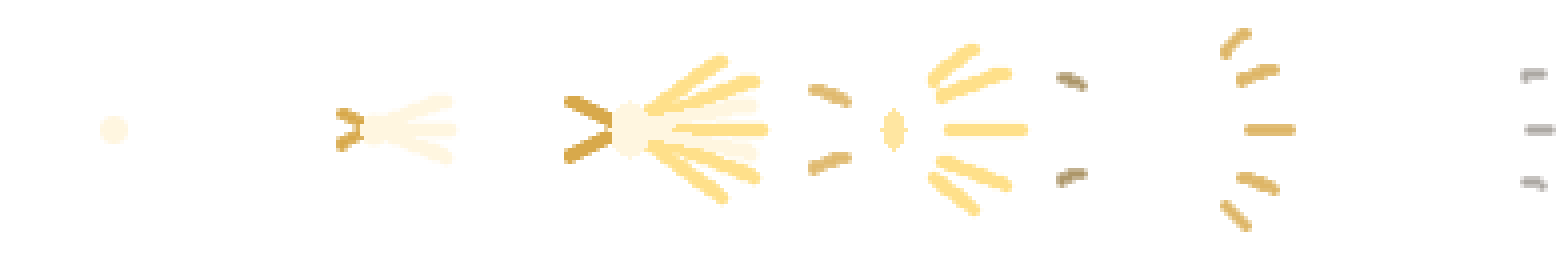
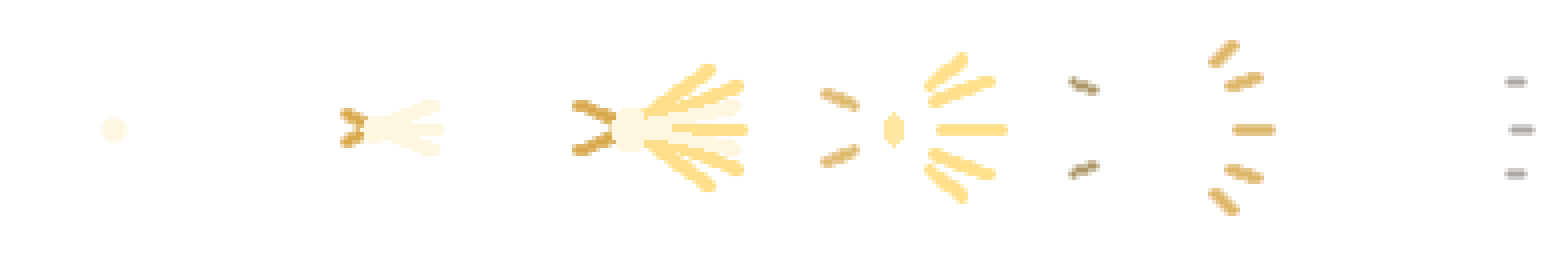
타격 그림 여섯 장을 틀에 맞추고, 지하 공창·폭주로에 원경을 붙였다
■ 잘린 타격 그림

  물리 타격 여섯 장 중 열한 프레임이 64칸 틀에 붙어 있었다. 둔기 치명타의
  바깥 고리는 rx 33(틀은 반지름 32)이라 좌우가 칼로 자른 듯 끊겼고, 파편
  하나는 x=0 에 붙어 반쪽만 보였다. 틀을 넘은 자리는 없어지는 것이 아니라
  **잘린 단면으로 남는다.**

  스케치를 64x64 viewBox 그대로 옮긴 것이 원인이라, 좌표를 하나씩 고치는
  대신 굽는 과정을 두 번으로 나눴다 — 두 배 판에 잘리지 않게 그려 실제로
  얼마나 넓은지 재고, 그 시트가 여백 2칸을 남기고 들어가는 배율 하나를 구해
  다시 그린다. 프레임마다 따로 맞추면 애니메이션이 프레임 단위로 커졌다
  작아지므로 배율은 시트 하나에 하나, 계열의 평타·치명타가 서로 커 보이지
  않도록 계열 안에서는 둘 중 더 작은 쪽으로 맞춘다.

    베기 0.879 · 찌르기 0.853 · 둔기 0.829
    서른여섯 프레임 전부 여백 2칸 이상, 가장자리 알파 0

  줄어든 만큼 화면에서 그리는 크기를 나눠서 올렸다(46→52 · 44→52 · 60→72).
  보이는 크기는 예전 그대로다 — 틀에 맞추느라 타격이 작아지면 고친 것이
  아니라 바꾼 것이 된다.

■ 원경 없던 두 구역

  parallax_works 는 매니페스트에 실려 있고 파일도 멀쩡한데(1920×400)
  drawParallaxArt 가 그 키를 한 번도 안 불렀다. 지하 공창과 폭주로는
  원경이 아예 없이 돌고 있었다 — 세션 2 의 절반을 보내는 곳인데 뒤가
  빈 캔버스였다. 설계실은 일부러 뺐다(강철이 한 조각도 없는 흰 돌방).

Claude-Session: https://claude.ai/code/session_015bTXkb4q3SzK7wZ8JdbtYP

diff --git a/game/index.html b/game/index.html
@@ -4,7 +4,7 @@
 <meta charset="utf-8">
 <meta name="viewport" content="width=device-width,initial-scale=1">
 <title>Ashfall Chronicles — 별이 잠든 땅</title>
-<link rel="stylesheet" href="css/style.css?v=238">
+<link rel="stylesheet" href="css/style.css?v=239">
 </head>
 <body>
 
@@ -451,19 +451,19 @@
   </div>
 </div>
 
-<script src="js/util.js?v=238"></script>
-<script src="js/data.js?v=238"></script>
-<script src="js/world.js?v=238"></script>
-<script src="js/tileart.js?v=238"></script>
-<script src="js/itemart.js?v=238"></script>
-<script src="js/titlebg.js?v=238"></script>
+<script src="js/util.js?v=239"></script>
+<script src="js/data.js?v=239"></script>
+<script src="js/world.js?v=239"></script>
+<script src="js/tileart.js?v=239"></script>
+<script src="js/itemart.js?v=239"></script>
+<script src="js/titlebg.js?v=239"></script>
 <!-- 매니페스트는 sprites.js 보다 먼저. file:// 에서 fetch 가 막히므로 <script> 로 넣는다 -->
-<script src="assets/sprites-manifest.js?v=238"></script>
-<script src="assets/sprites.js?v=238"></script>
-<script src="js/entity.js?v=238"></script>
-<script src="js/factory.js?v=238"></script>
-<script src="js/ui.js?v=238"></script>
-<script src="js/music.js?v=238"></script>
-<script src="js/game.js?v=238"></script>
+<script src="assets/sprites-manifest.js?v=239"></script>
+<script src="assets/sprites.js?v=239"></script>
+<script src="js/entity.js?v=239"></script>
+<script src="js/factory.js?v=239"></script>
+<script src="js/ui.js?v=239"></script>
+<script src="js/music.js?v=239"></script>
+<script src="js/game.js?v=239"></script>
 </body>
 </html>

diff --git a/game/js/data.js b/game/js/data.js
@@ -1050,11 +1050,18 @@ const HIT_FAM = {
 };
 /* 계열마다 크기와 남는 시간이 다르다. 이게 무게로 읽힌다 —
    베기는 가장 빨리 사라져야 연타가 겹쳐도 화면이 안 막히고,
-   둔기는 가장 크고 가장 늦게까지 남아야 한 방이 무겁게 읽힌다. */
+   둔기는 가장 크고 가장 늦게까지 남아야 한 방이 무겁게 읽힌다.
+
+   ★ size 는 그림이 차지하는 크기가 아니라 **틀(64칸)을 그리는 크기**다.
+   시트는 틀 안에 여백 2칸을 남기고 구워지므로(tools/mkhitphys.py 의 틀 맞춤)
+   화면에 보이는 크기는 size × 그 배율이다 — 베기 52×0.879≈46 ·
+   찌르기 52×0.853≈44 · 둔기 72×0.829≈60, 즉 보이는 크기는 예전 그대로다.
+   베기와 찌르기가 같은 52인 것은 우연이고, 둘의 배율이 달라 화면에서는 안 같다.
+   시트를 다시 구우면 그 스크립트가 찍어 주는 숫자로 여기를 같이 고친다. */
 const HIT_FX = {
-  slash: { size: 46, slow: 0.80 },
-  pierce: { size: 44, slow: 0.90 },
-  blunt: { size: 60, slow: 1.35 }
+  slash: { size: 52, slow: 0.80 },
+  pierce: { size: 52, slow: 0.90 },
+  blunt: { size: 72, slow: 1.35 }
 };
 
 /** 이 무기로 때렸을 때 어느 타격 그림을 쓰는가. 없으면(마법·맨손) null */

diff --git a/game/js/game.js b/game/js/game.js
@@ -4734,6 +4734,13 @@ const G = {
     // parallax_sky·parallax_ruin이 들어와 있었는데 여기서 참조하지 않아 그동안 안 쓰이고 있었다
     else if (zone === 'sky') key = 'parallax_sky';
     else if (zone === 'ruin') key = 'parallax_ruin';
+    /* ★ parallax_works 도 같은 신세였다 — 매니페스트에 실려 있고 파일도 멀쩡한데
+       (1920×400) 이 함수가 그 키를 한 번도 안 불렀다. 그래서 지하 공창과 폭주로는
+       **원경이 아예 없었다**(아래 '지하 중간층은 원경 없음' 으로 빠져나간다).
+       세션 2 의 절반을 보내는 곳인데 뒤가 빈 캔버스였다.
+       설계실(atelier)은 일부러 뺀다 — 거기는 "강철이 한 조각도 없는 흰 돌방"이라
+       공창 배경을 깔면 글과 그림이 어긋난다. */
+    else if (zone === 'works' || zone === 'runaway') key = 'parallax_works';
     // 여명 마을은 전용 그림. 베이스캠프는 숲 배경 그대로 (마을 배경 쓰면 안 됨)
     else if (zone === 'village') key = 'parallax_village';
     else if (zone === 'camp') key = 'parallax_forest';

diff --git a/tools/mkhitphys.py b/tools/mkhitphys.py
@@ -30,6 +30,24 @@
   manifest.json 의 fx.bursts 가 그 규격으로 잘라 쓴다(scale 4 · gap 4 ·
   frameW/H 64 · count 6).
 
+■ 틀 맞춤 — 두 번 굽는다
+
+  처음에는 스케치를 좌표 그대로 옮겼고, 그래서 큰 프레임이 틀을 넘었다.
+  둔기 치명타의 바깥 고리는 rx 33(틀은 반지름 32)이고, 파편 하나는 x=0 에
+  붙어 있었다. 넘은 자리는 **없어지는 것이 아니라 잘린 단면으로 남는다** —
+  고리가 좌우에서 칼로 자른 듯 끊기고, 파편은 반쪽만 보인다.
+
+  그래서 두 번 굽는다. 첫 번째는 **두 배 넓은 버퍼**에 잘리지 않게 그려
+  시트가 실제로 얼마나 넓은지 재고, 그 시트에서 가장 넓은 프레임이 틀 안에
+  여백 2px 을 남기고 들어가는 배율 하나를 구한다. 두 번째에 그 배율로 다시
+  그린다 — 프레임마다 따로 맞추면 애니메이션이 프레임 단위로 커졌다 작아지므로
+  **배율은 시트 하나에 하나**, 계열의 평타·치명타가 서로 커 보이지 않도록
+  **계열 안에서는 둘 중 더 작은 쪽**으로 맞춘다.
+
+  그림이 줄어든 만큼 화면에서 그리는 크기(data.js 의 HIT_FX size)를 나눠서
+  올린다 — 틀에 맞추느라 타격이 작아지면 고친 것이 아니라 바꾼 것이 된다.
+  이 스크립트가 그 숫자를 찍어 준다.
+
 ■ 색
 
   물리만 금빛을 쓴다 — 이미 있는 마법 다섯(비전·서리·영혼·불·공허)이 전부
@@ -43,6 +61,10 @@ from PIL import Image
 
 OUT = os.path.join(os.path.dirname(os.path.abspath(__file__)), '..', 'game', 'assets', 'fx')
 N, S, GAP, FRAMES = 64, 4, 4, 6
+MARGIN = 2              # 틀 안쪽에 반드시 남는 여백(원본 px) — 단면이 안 생기는 최소치
+
+# 굽는 동안 바뀌는 것: 재는 판(CANV=128)과 내는 판(CANV=64), 그리고 틀 맞춤 배율.
+CANV, CEN, FIT = N, N / 2, 1.0
 
 W = (255, 246, 224)     # 심지 — 따뜻한 흰빛
 G = (255, 224, 138)     # 금빛 몸통
@@ -54,10 +76,21 @@ P = (255, 255, 255)     # 순백 — 치명타에만
 
 # ---------------------------------------------------------------- 붓
 
+def tp(v):
+    """스케치 좌표(가운데 32) → 지금 굽는 판의 좌표. FIT<1 이면 가운데로 당겨진다."""
+    return CEN + (v - N / 2) * FIT
+
+
+def tw(v):
+    """굵기·반지름도 같은 배율로 — 위치만 줄이면 획이 굵어져 고리가 도로 틀을 넘는다."""
+    return max(v * FIT, 0.5)
+
+
 def put(px, x, y, rgb, a):
-    """더 밝은(더 진한) 쪽을 남긴다. 겹칠 때 앞의 획이 뒤에 먹히지 않게."""
+    """더 밝은(더 진한) 쪽을 남긴다. 겹칠 때 앞의 획이 뒤에 먹히지 않게.
+       ★ 판의 좌표를 받는다(tp 를 이미 지난 값). 여기서 또 변환하면 두 번 줄어든다."""
     x, y = int(x), int(y)
-    if not (0 <= x < N and 0 <= y < N) or a <= 0:
+    if not (0 <= x < CANV and 0 <= y < CANV) or a <= 0:
         return
     a = min(1.0, a)
     if a * 255 >= px[x, y][3]:
@@ -65,7 +98,9 @@ def put(px, x, y, rgb, a):
 
 
 def dot(px, x, y, r, rgb, a):
-    """둥근 점 하나 — 모든 획의 단위."""
+    """둥근 점 하나 — 모든 획의 단위. 틀 맞춤이 걸리는 곳은 여기 한 군데다
+       (bez·line·ell 이 전부 dot 을 거치므로 스케치 좌표를 그대로 넘겨도 된다)."""
+    x, y, r = tp(x), tp(y), tw(r)
     rr = int(r) + 2
     for dy in range(-rr, rr + 1):
         for dx in range(-rr, rr + 1):
@@ -105,6 +140,7 @@ def ell(px, cx, cy, rx, ry, sw, rgb, a):
 
 
 def ellfill(px, cx, cy, rx, ry, rgb, a):
+    cx, cy, rx, ry = tp(cx), tp(cy), tw(rx), tw(ry)
     for y in range(int(-ry) - 1, int(ry) + 2):
         for x in range(int(-rx) - 1, int(rx) + 2):
             if (x / max(rx, .1)) ** 2 + (y / max(ry, .1)) ** 2 <= 1:
@@ -113,13 +149,14 @@ def ellfill(px, cx, cy, rx, ry, rgb, a):
 
 def box(px, x, y, w, h, rgb, a):
     """네모 파편 — 둔기가 튀겨 낸 덩어리."""
+    x, y, w, h = tp(x), tp(y), max(round(w * FIT), 2), max(round(h * FIT), 2)
     for dy in range(int(h)):
         for dx in range(int(w)):
             put(px, x + dx, y + dy, rgb, a)
 
 
 def new():
-    im = Image.new('RGBA', (N, N), (0, 0, 0, 0))
+    im = Image.new('RGBA', (CANV, CANV), (0, 0, 0, 0))
     return im, im.load()
 
 
@@ -370,24 +407,57 @@ def f_blunt_crit(f):
     return im
 
 
-SHEETS = [
-    ('hit_slash', f_slash), ('hit_slash_crit', f_slash_crit),
-    ('hit_pierce', f_pierce), ('hit_pierce_crit', f_pierce_crit),
-    ('hit_blunt', f_blunt), ('hit_blunt_crit', f_blunt_crit),
+# 계열 = 평타·치명타 한 쌍. 화면에서 그리는 크기(HIT_FX size)를 한 쌍이 같이 쓰므로
+# 틀 맞춤 배율도 쌍으로 하나여야 한다 — 따로 맞추면 치명타가 평타보다 작아진다.
+FAMS = [
+    ('slash', 46, [('hit_slash', f_slash), ('hit_slash_crit', f_slash_crit)]),
+    ('pierce', 44, [('hit_pierce', f_pierce), ('hit_pierce_crit', f_pierce_crit)]),
+    ('blunt', 60, [('hit_blunt', f_blunt), ('hit_blunt_crit', f_blunt_crit)]),
 ]
+
+
+def measure(fn):
+    """첫 번째 굽기 — 두 배 판에 잘리지 않게 그려, 가운데에서 가장 먼 픽셀을 잰다."""
+    global CANV, CEN, FIT
+    CANV, CEN, FIT = N * 2, N, 1.0
+    far = 0.0
+    for f in range(FRAMES):
+        bb = fn(f).getbbox()
+        if not bb:
+            continue
+        l, t, r, b = bb
+        far = max(far, CEN - l, (r - 1) - CEN, CEN - t, (b - 1) - CEN)
+    return far
 
 
 def main():
     os.makedirs(OUT, exist_ok=True)
+    global CANV, CEN, FIT
     fw = N * S
     sw = FRAMES * fw + (FRAMES - 1) * GAP
-    for name, fn in SHEETS:
-        sheet = Image.new('RGBA', (sw, N * S), (0, 0, 0, 0))
-        for f in range(FRAMES):
-            sheet.paste(fn(f).resize((fw, N * S), Image.NEAREST), (f * (fw + GAP), 0))
-        p = os.path.join(OUT, name + '.png')
-        sheet.save(p)
-        print('  %-18s %dx%d  %dB' % (name + '.png', sheet.size[0], sheet.size[1], os.path.getsize(p)))
+    # 가운데 픽셀은 32번 칸이므로 오른쪽·아래로 남는 칸은 31개다 —
+    # 여백 MARGIN 을 양쪽에 두려면 가운데에서 31-MARGIN 까지만 써야 한다.
+    lim = N / 2 - 1 - MARGIN
+    for fam, size, sheets in FAMS:
+        far = max(measure(fn) for _, fn in sheets)
+        k = min(1.0, lim / far) if far > 0 else 1.0
+        print('  %-7s 가장 먼 픽셀 %.1f / 틀 %.0f → 배율 %.3f · HIT_FX size %d → %d'
+              % (fam, far, lim, k, size, round(size / k)))
+        for name, fn in sheets:
+            CANV, CEN, FIT = N, N / 2, k
+            sheet = Image.new('RGBA', (sw, N * S), (0, 0, 0, 0))
+            gap = N                      # 여섯 프레임 중 여백이 가장 좁은 곳
+            for f in range(FRAMES):
+                im = fn(f)
+                bb = im.getbbox()
+                if bb:
+                    gap = min(gap, bb[0], bb[1], N - bb[2], N - bb[3])
+                sheet.paste(im.resize((fw, N * S), Image.NEAREST), (f * (fw + GAP), 0))
+            p = os.path.join(OUT, name + '.png')
+            sheet.save(p)
+            print('    %-18s %dx%d  %6dB  가장 좁은 여백 %dpx%s'
+                  % (name + '.png', sheet.size[0], sheet.size[1], os.path.getsize(p),
+                     gap, '' if gap >= MARGIN else '  ← 아직 붙는다'))
     return 0
 
 
